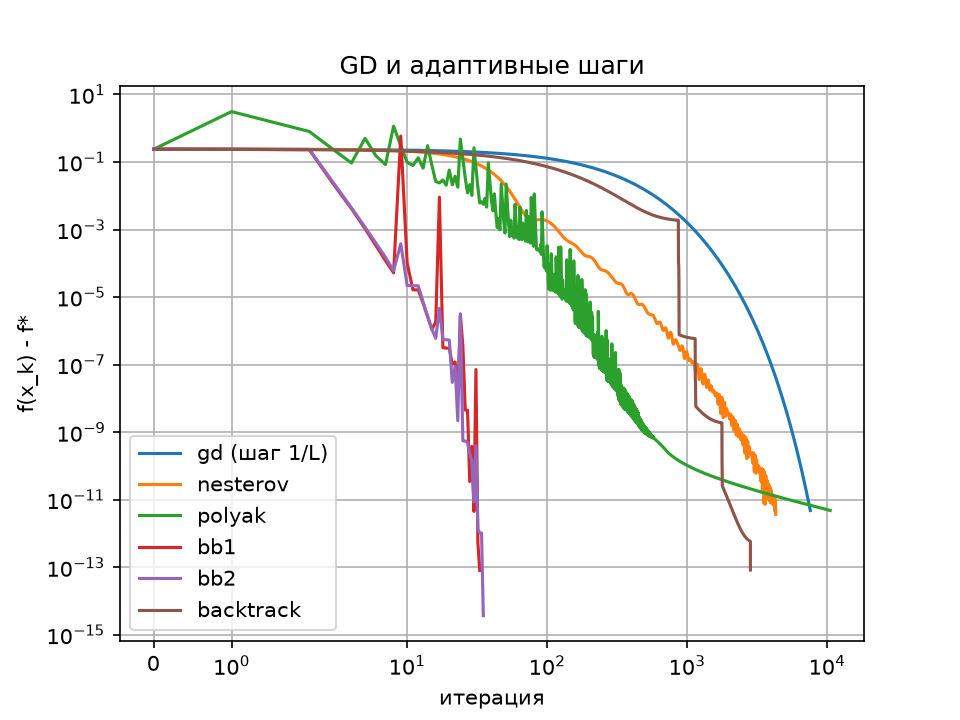
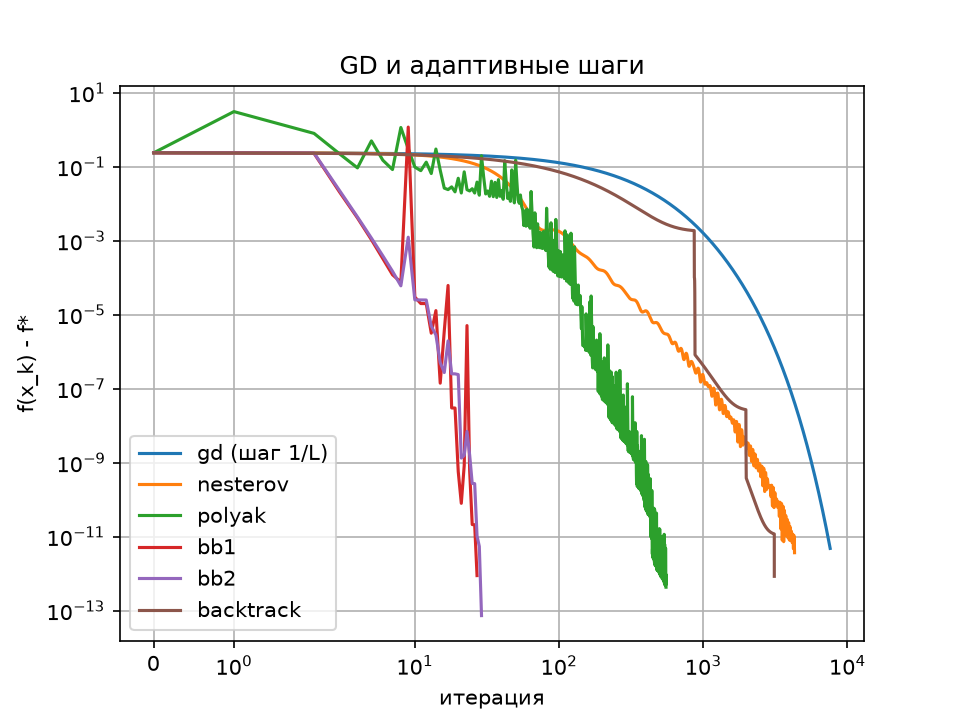
Тесты сравнения. 2 версия.

diff --git a/lab2/utils/portfolio_projection.py b/lab2/utils/portfolio_projection.py
@@ -1,0 +1,91 @@
+
+import numpy as np
+from scipy.optimize import minimize
+
+
+def project_capped_simplex(v, w_max, tol=1e-12):
+    """Точная с численной погрешностью проекция:
+    sum(w)=1, 0<=w_i<=w_max.
+    """
+    v = np.asarray(v, dtype=float)
+    n = len(v)
+
+    if n * w_max < 1 - tol:
+        raise ValueError("Допустимая область пуста")
+
+    low = np.min(v) - w_max
+    high = np.max(v)
+
+    for _ in range(150):
+        theta = (low + high) / 2
+        w = np.clip(v - theta, 0.0, w_max)
+
+        if np.sum(w) > 1:
+            low = theta
+        else:
+            high = theta
+
+    return np.clip(v - (low + high) / 2, 0.0, w_max)
+
+
+def project_portfolio(v, oracle):
+    """Проекция с учётом всех включённых ограничений,
+    кроме risk_max.
+    """
+    if oracle.risk_max is not None:
+        raise NotImplementedError(
+            "Ограничение риска пока не поддерживается"
+        )
+
+    v = np.asarray(v, dtype=float)
+
+    # Без ограничения доходности используем
+    # быструю проекцию на ограниченный симплекс.
+    if oracle.r_min is None:
+        w = project_capped_simplex(v, oracle.w_max)
+
+        if not oracle.is_feasible(w, tol=1e-7):
+            raise RuntimeError("Ошибка проекции")
+
+        return w
+
+    # С минимальной доходностью решаем
+    # квадратичную задачу через SLSQP.
+    n = oracle.dim
+
+    x0 = oracle.feasible_start()
+    if x0 is None:
+        raise ValueError("Нет допустимой начальной точки")
+
+    constraints = [
+        {
+            "type": "eq",
+            "fun": lambda w: np.sum(w) - 1,
+            "jac": lambda w: np.ones(n),
+        },
+        {
+            "type": "ineq",
+            "fun": lambda w: oracle.b @ w - oracle.r_min,
+            "jac": lambda w: oracle.b,
+        },
+    ]
+
+    result = minimize(
+        lambda w: 0.5 * np.sum((w - v) ** 2),
+        x0=x0,
+        jac=lambda w: w - v,
+        method="SLSQP",
+        bounds=[(0, oracle.w_max)] * n,
+        constraints=constraints,
+        options={"ftol": 1e-12, "maxiter": 1000},
+    )
+
+    if not result.success:
+        raise RuntimeError(
+            f"Проекция не сошлась: {result.message}"
+        )
+
+    if not oracle.is_feasible(result.x, tol=1e-7):
+        raise RuntimeError("Недопустимая проекция")
+
+    return result.x

diff --git a/lab2/scripts/test_portfolio_projection.py b/lab2/scripts/test_portfolio_projection.py
@@ -1,0 +1,51 @@
+
+import numpy as np
+
+from oracles.constrained_markowitz import ConstrainedMarkowitzOracle
+from utils.portfolio_projection import project_portfolio
+
+
+oracle = ConstrainedMarkowitzOracle(
+    dim=20,
+    n_periods=300,
+    seed=0,
+    w_max=0.3,
+    r_min=None,
+    risk_max=None,
+)
+
+# Начальная точка должна быть допустимой
+x0 = oracle.feasible_start()
+
+print("НАЧАЛЬНАЯ ТОЧКА")
+print("Найдена:", x0 is not None)
+
+if x0 is None:
+    raise RuntimeError("Нет допустимой начальной точки")
+
+print("Допустима:", oracle.is_feasible(x0))
+print("Сумма весов:", np.sum(x0))
+print("Максимальный вес:", np.max(x0))
+print("Нарушения:", oracle.violations(x0))
+
+# Создаём заведомо недопустимый портфель
+v = np.zeros(oracle.dim)
+v[0] = 0.8
+v[1] = 0.2
+
+print("\nДО ПРОЕКЦИИ")
+print("Сумма весов:", np.sum(v))
+print("Максимальный вес:", np.max(v))
+print("Нарушения:", oracle.violations(v))
+
+w = project_portfolio(v, oracle)
+
+print("\nПОСЛЕ ПРОЕКЦИИ")
+print("Сумма весов:", np.sum(w))
+print("Минимальный вес:", np.min(w))
+print("Максимальный вес:", np.max(w))
+print("Нарушения:", oracle.violations(w))
+print("Допустима:", oracle.is_feasible(w, tol=1e-7))
+
+assert oracle.is_feasible(w, tol=1e-7)
+print("\nТЕСТ ПРОЙДЕН")

diff --git a/lab2/methods/adaptive_step.py b/lab2/methods/adaptive_step.py
@@ -28,8 +28,10 @@ class AdaptiveStep(Method):
         f_star = self.oracle.info.f_star
         if f_star is None:
             return self._eta
-        denom = float(g @ g) + 1e-12
-        return max((f - f_star) / denom, 1e-12)
+        gg = float(g @ g)
+        if gg <= 0.0:
+            return self._eta
+        return max((f - f_star) / gg, 1e-12)
 
     def _bb(self, x, g, mode: int) -> float:
         if self._prev_grad is None:
